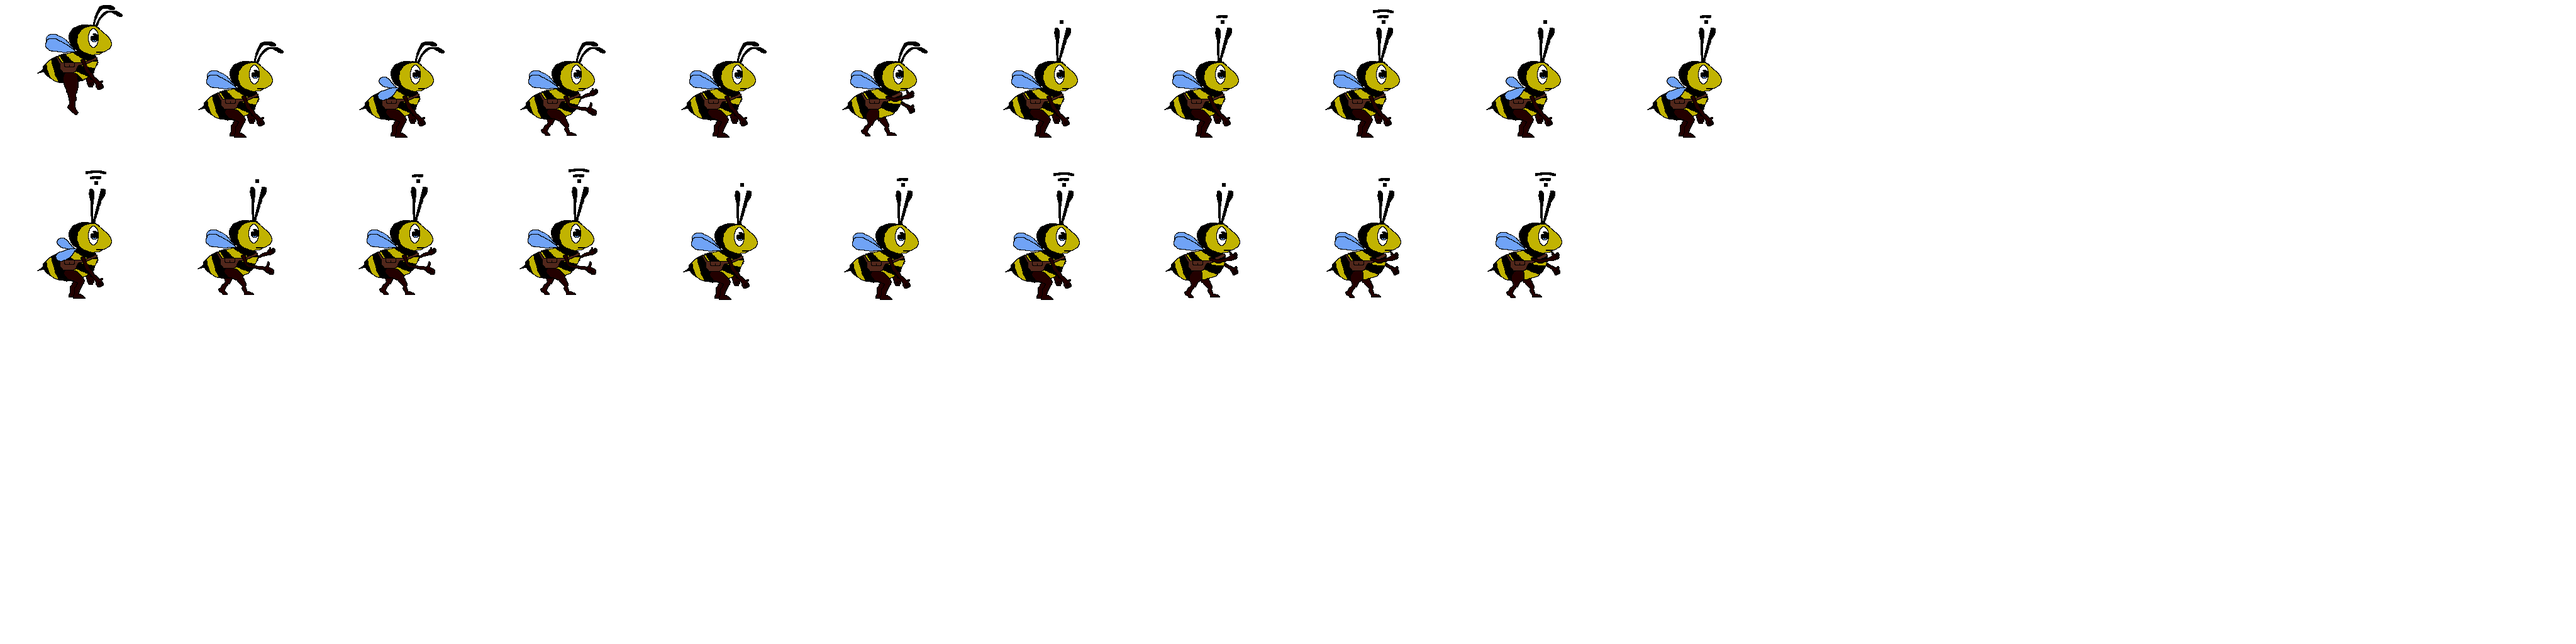
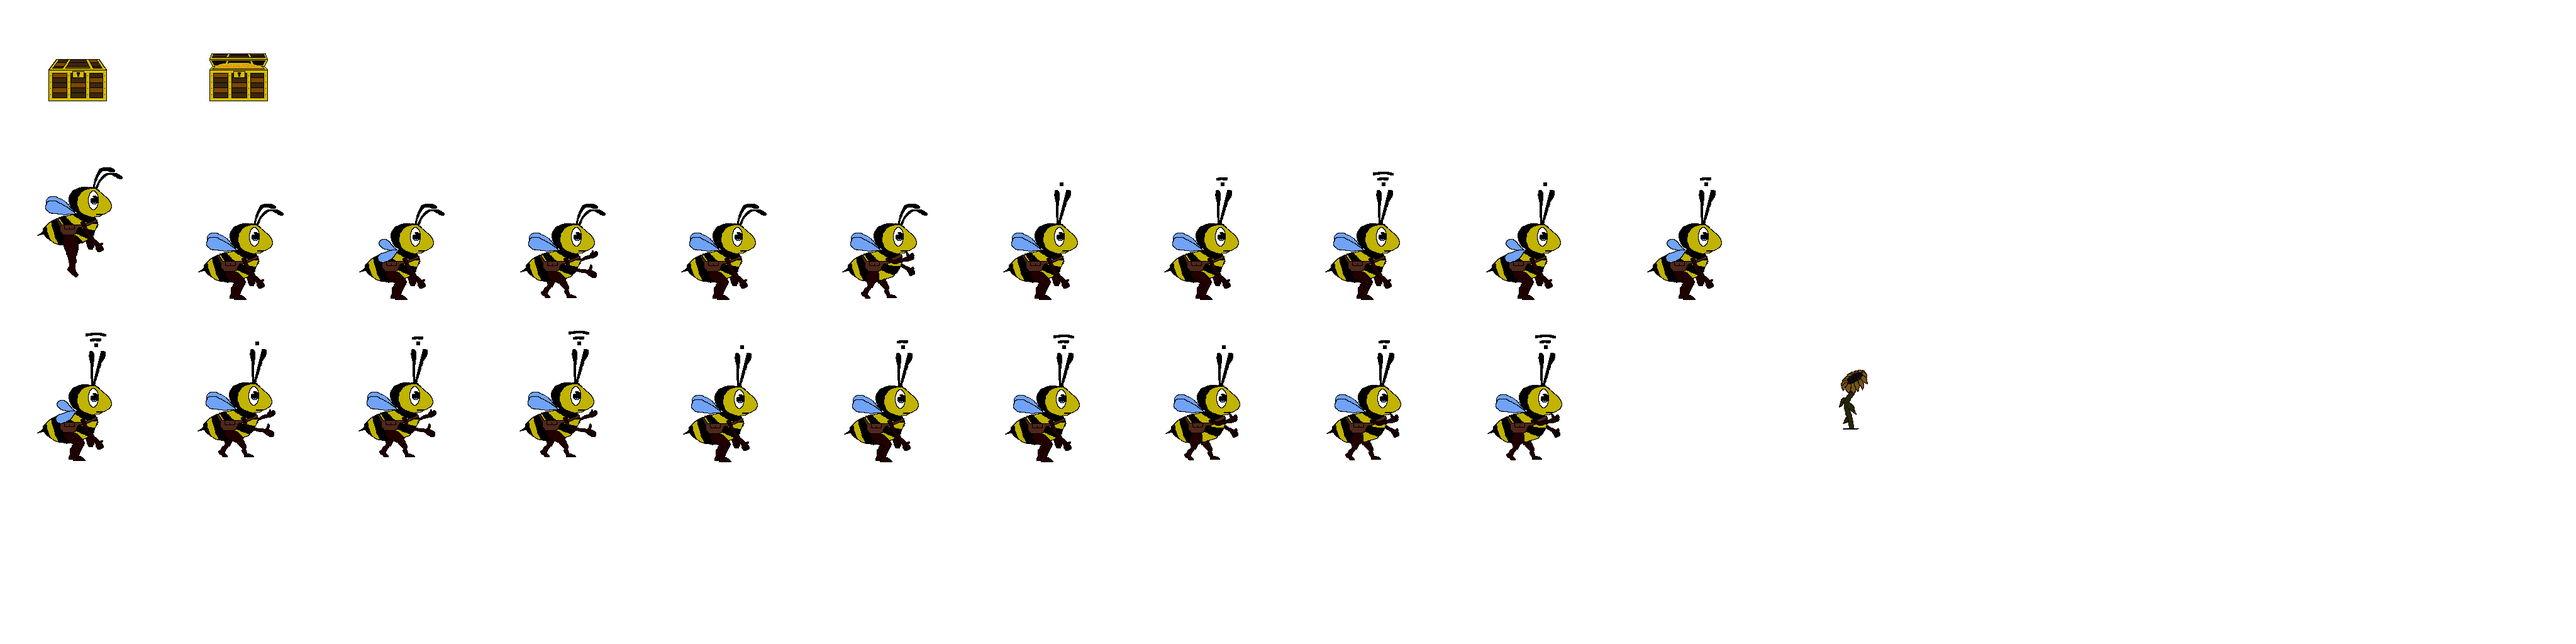
Inimigo adicionado e marcado

diff --git a/core/src/com/rpbee/Sprites/Enemies/Sunflower.java b/core/src/com/rpbee/Sprites/Enemies/Sunflower.java
@@ -1,0 +1,101 @@
+package com.rpbee.Sprites.Enemies;
+
+import com.badlogic.gdx.audio.Sound;
+import com.badlogic.gdx.graphics.g2d.Animation;
+import com.badlogic.gdx.graphics.g2d.Batch;
+import com.badlogic.gdx.graphics.g2d.TextureRegion;
+import com.badlogic.gdx.math.Vector2;
+import com.badlogic.gdx.physics.box2d.BodyDef;
+import com.badlogic.gdx.physics.box2d.CircleShape;
+import com.badlogic.gdx.physics.box2d.FixtureDef;
+import com.badlogic.gdx.physics.box2d.PolygonShape;
+import com.badlogic.gdx.utils.Array;
+import com.rpbee.RPBeeGame;
+import com.rpbee.Screens.PlayScreen;
+import com.rpbee.Sprites.Anthon;
+
+public class Sunflower extends Enemy {
+    private float stateTimer;
+    private TextureRegion stand;
+    private boolean setToDestroy;
+    private boolean destroyed;
+    float angle;
+
+    public Sunflower(PlayScreen screen, float x, float y) {
+        super(screen, x, y);
+        stand = new TextureRegion(screen.getAtlas().findRegion("inimigo1"), 0, 0, 256, 256);
+        stateTimer = 0;
+        setBounds(getX(), getY(), 256 / RPBeeGame.PPM * 0.5f, 256 / RPBeeGame.PPM * 0.5f);
+
+        setToDestroy = false;
+        destroyed = false;
+        angle = 0;
+    }
+
+    public void update(float delta){
+        stateTimer += delta;
+        if(setToDestroy && !destroyed){
+            world.destroyBody(b2body);
+            destroyed = true;
+            //setRegion(new TextureRegion(screen.getAtlas().findRegion("goomba"), 32, 0, 16, 16));
+            stateTimer = 0;
+        }else if(!destroyed) {
+            //controlar ataques
+//            b2body.setLinearVelocity(velocity);
+            setPosition(b2body.getPosition().x - getWidth() / 2, b2body.getPosition().y - getHeight() / 2.3f);
+            setRegion(stand);
+        }
+    }
+
+    @Override
+    protected void defineEnemy() {
+        BodyDef bdef = new BodyDef();
+        bdef.position.set(getX(), getY());
+        bdef.type = BodyDef.BodyType.StaticBody;
+        b2body = world.createBody(bdef);
+
+        FixtureDef fdef = new FixtureDef();
+        PolygonShape shape = new PolygonShape();
+        shape.setAsBox(10 / RPBeeGame.PPM, 32 / RPBeeGame.PPM);
+        //shape.setRadius(6 / RPBeeGame.PPM);
+        fdef.filter.categoryBits = RPBeeGame.ENEMY_BIT;
+        fdef.filter.maskBits = RPBeeGame.GROUND_BIT | RPBeeGame.BEE_BIT;
+        fdef.shape = shape;
+
+        b2body.createFixture(fdef).setUserData(this);
+
+        //Create the head
+//        PolygonShape head = new PolygonShape();
+//        Vector2[] vertice = new Vector2[4];
+//        vertice[0] = new Vector2(-3, 8).scl(1 / MarioBros.PPM);
+//        vertice[1] = new Vector2(3, 8).scl(1 / MarioBros.PPM);
+//        vertice[2] = new Vector2(-1, 3).scl(1 / MarioBros.PPM);
+//        vertice[3] = new Vector2(1, 3).scl(1 / MarioBros.PPM);
+//        head.set(vertice);
+
+//        fdef.shape = head;
+//        fdef.restitution = 0.5f;
+//        fdef.filter.categoryBits = MarioBros.ENEMY_HEAD_BIT;
+//        b2body.createFixture(fdef).setUserData(this);
+    }
+
+    public void draw(Batch batch){
+        if(!destroyed || stateTimer < 1){
+            super.draw(batch);
+        }
+    }
+
+    public void onEnemyHit(Enemy enemy){
+//        if(enemy instanceof  Turtle && ((Turtle) enemy).currentState == Turtle.State.MOVING_SHELL){
+//            setToDestroy = true;
+//        }else{
+//            reverseVelocity(true, false);
+//        }
+    }
+
+    @Override
+    public void hitOnHead(Anthon anthon) {
+        setToDestroy = true;
+//        MarioBros.manager.get("audio/sounds/stomp.wav", Sound.class).play();
+    }
+}

diff --git a/core/src/com/rpbee/Tools/B2WorldCreator.java b/core/src/com/rpbee/Tools/B2WorldCreator.java
@@ -8,9 +8,13 @@ import com.badlogic.gdx.physics.box2d.*;
 import com.badlogic.gdx.utils.Array;
 import com.rpbee.RPBeeGame;
 import com.rpbee.Screens.PlayScreen;
+import com.rpbee.Sprites.Enemies.Enemy;
+import com.rpbee.Sprites.Enemies.Sunflower;
 import com.rpbee.Sprites.TileObjects.Chest;
 
 public class B2WorldCreator {
+
+    private Array<Sunflower> sunflowers;
 
     public B2WorldCreator(PlayScreen screen){
         World world = screen.getWorld();
@@ -40,6 +44,14 @@ public class B2WorldCreator {
         for(MapObject object : map.getLayers().get(8).getObjects().getByType(RectangleMapObject.class)){
             new Chest(screen, object);
         }
+
+        //create all sunflowers
+        sunflowers = new Array<Sunflower>();
+        for(MapObject object : map.getLayers().get(10).getObjects().getByType(RectangleMapObject.class)){
+            Rectangle rect = ((RectangleMapObject) object).getRectangle();
+
+            sunflowers.add(new Sunflower(screen, rect.getX() / RPBeeGame.PPM, rect.getY() / RPBeeGame.PPM));
+        }
 //
 //        //Create brick bodies/fixtures
 //        for(MapObject object : map.getLayers().get(5).getObjects().getByType(RectangleMapObject.class)){
@@ -68,5 +80,11 @@ public class B2WorldCreator {
 //
 //            turtles.add(new Turtle(screen, rect.getX() / MarioBros.PPM, rect.getY() / MarioBros.PPM));
 //        }
+    }
+
+    public Array<Enemy> getEnemies(){
+        Array<Enemy> enemies = new Array<Enemy>();
+        enemies.addAll(sunflowers);
+        return enemies;
     }
 }

diff --git a/core/src/com/rpbee/Screens/PlayScreen.java b/core/src/com/rpbee/Screens/PlayScreen.java
@@ -19,6 +19,7 @@ import com.badlogic.gdx.utils.viewport.Viewport;
 import com.rpbee.RPBeeGame;
 import com.rpbee.Scenes.Hud;
 import com.rpbee.Sprites.Anthon;
+import com.rpbee.Sprites.Enemies.Enemy;
 import com.rpbee.Tools.B2WorldCreator;
 import com.rpbee.Tools.WorldContactListener;
 
@@ -145,12 +146,12 @@ public class PlayScreen implements Screen {
         world.step(1/60f, 6, 2);
 
         player.update(delta);
-//        for(Enemy enemy : creator.getEnemies()){
-//            enemy.update(delta);
-//            if(enemy.getX() < player.getX() + 224 / MarioBros.PPM){
-//                enemy.b2body.setActive(true);
-//            }
-//        }
+        for(Enemy enemy : creator.getEnemies()){
+            enemy.update(delta);
+            if(enemy.getX() < player.getX() + 224 / RPBeeGame.PPM){
+                enemy.b2body.setActive(true);
+            }
+        }
 //
 //        for(Item item : items){
 //            item.update(delta);
@@ -190,9 +191,9 @@ public class PlayScreen implements Screen {
         game.batch.setProjectionMatrix(gameCam.combined);
         game.batch.begin();
         player.draw(game.batch);
-//        for(Enemy enemy : creator.getEnemies()){
-//            enemy.draw(game.batch);
-//        }
+        for(Enemy enemy : creator.getEnemies()){
+            enemy.draw(game.batch);
+        }
 //        for(Item item : items){
 //            item.draw(game.batch);
 //        }

diff --git a/core/src/com/rpbee/Sprites/Anthon.java b/core/src/com/rpbee/Sprites/Anthon.java
@@ -129,6 +129,7 @@ public class Anthon extends Sprite {
         //update sprite with the correct frame depending on Anthon's current action
         setRegion(getFrame(delta));
 
+        //Recharge fly bar
         if(getState() == State.STANDING && (flyEnergy+0.2f) <= 40 && stateTimer > 1){
             setFlyEnergy(0.2f);
         }else if((getState() == State.RUNNING || getState() != State.JUMPING) && (flyEnergy+0.01f) <= 40){
@@ -280,7 +281,7 @@ public class Anthon extends Sprite {
         CircleShape shape = new CircleShape();
         shape.setRadius(12 / RPBeeGame.PPM);
         fdef.filter.categoryBits = RPBeeGame.BEE_BIT;
-        fdef.filter.maskBits = RPBeeGame.GROUND_BIT | RPBeeGame.OBJECT_BIT | RPBeeGame.CHEST_BIT;
+        fdef.filter.maskBits = RPBeeGame.GROUND_BIT | RPBeeGame.OBJECT_BIT | RPBeeGame.CHEST_BIT | RPBeeGame.ENEMY_BIT;
         fdef.shape = shape;
 
         b2body.createFixture(fdef).setUserData(this);

diff --git a/core/src/com/rpbee/Sprites/Enemies/Enemy.java b/core/src/com/rpbee/Sprites/Enemies/Enemy.java
@@ -1,0 +1,29 @@
+package com.rpbee.Sprites.Enemies;
+
+import com.badlogic.gdx.graphics.g2d.Sprite;
+import com.badlogic.gdx.math.Vector2;
+import com.badlogic.gdx.physics.box2d.Body;
+import com.badlogic.gdx.physics.box2d.World;
+import com.rpbee.Screens.PlayScreen;
+import com.rpbee.Sprites.Anthon;
+
+public abstract class Enemy extends Sprite {
+
+    protected World world;
+    protected PlayScreen screen;
+    public Body b2body;
+
+    public Enemy(PlayScreen screen, float x, float y){
+        this.world = screen.getWorld();
+        this.screen = screen;
+        setPosition(x, y);
+        defineEnemy();
+        b2body.setActive(false);
+    }
+
+    protected abstract void defineEnemy();
+    public abstract void update(float delta);
+    public abstract void hitOnHead(Anthon anthon);
+    public abstract void onEnemyHit(Enemy enemy);
+
+}

diff --git a/core/src/com/rpbee/Sprites/TileObjects/Chest.java b/core/src/com/rpbee/Sprites/TileObjects/Chest.java
@@ -26,7 +26,7 @@ public class Chest extends InteractiveTileObject {
         Gdx.app.log("Chest", "Collision");
         if(object.getProperties().containsKey("fechado")){
             //MarioBros.manager.get("audio/sounds/bump.wav", Sound.class).play();
-            Gdx.app.log("ABRIR BAU", "Pressione F");
+            Gdx.app.log("ABRIR BAU", "Pressione E");
             canOpen = true;
         }else{
             Gdx.app.log("ABRIR BAU", "Bau ja aberto");

diff --git a/core/src/com/rpbee/RPBeeGame.java b/core/src/com/rpbee/RPBeeGame.java
@@ -35,7 +35,7 @@ public class RPBeeGame extends Game {
 	public static final short CHEST_BIT = 8;
 	//public static final short DESTROYED_BIT = 16;
 	public static final short OBJECT_BIT = 32;
-	//public static final short ENEMY_BIT = 64;
+	public static final short ENEMY_BIT = 64;
 	//public static final short ENEMY_HEAD_BIT = 128;
 	//public static final short ITEM_BIT = 256;
 	//public static final short MARIO_HEAD_BIT = 512;
